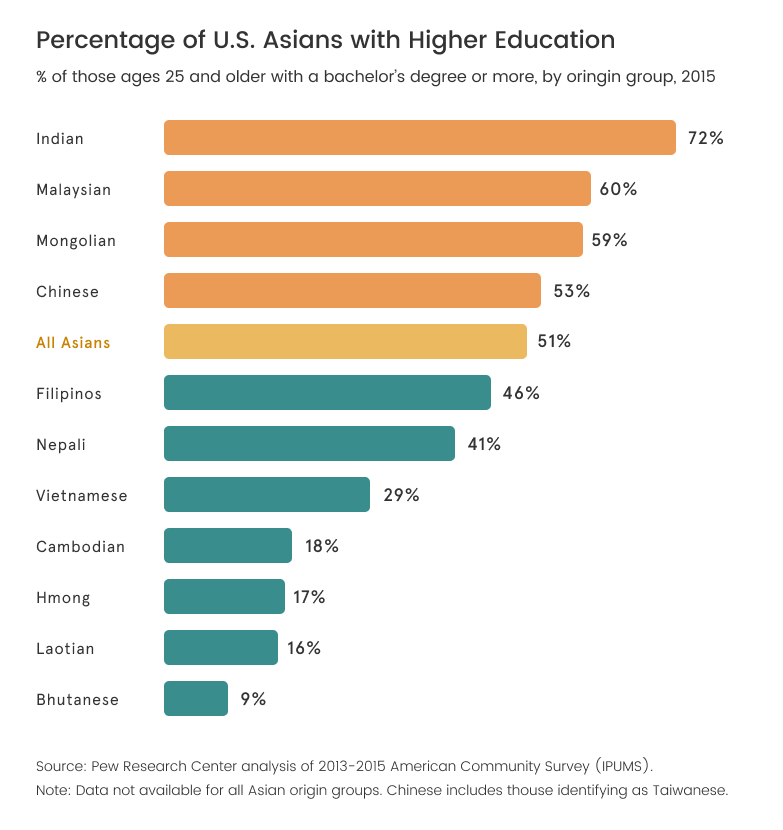
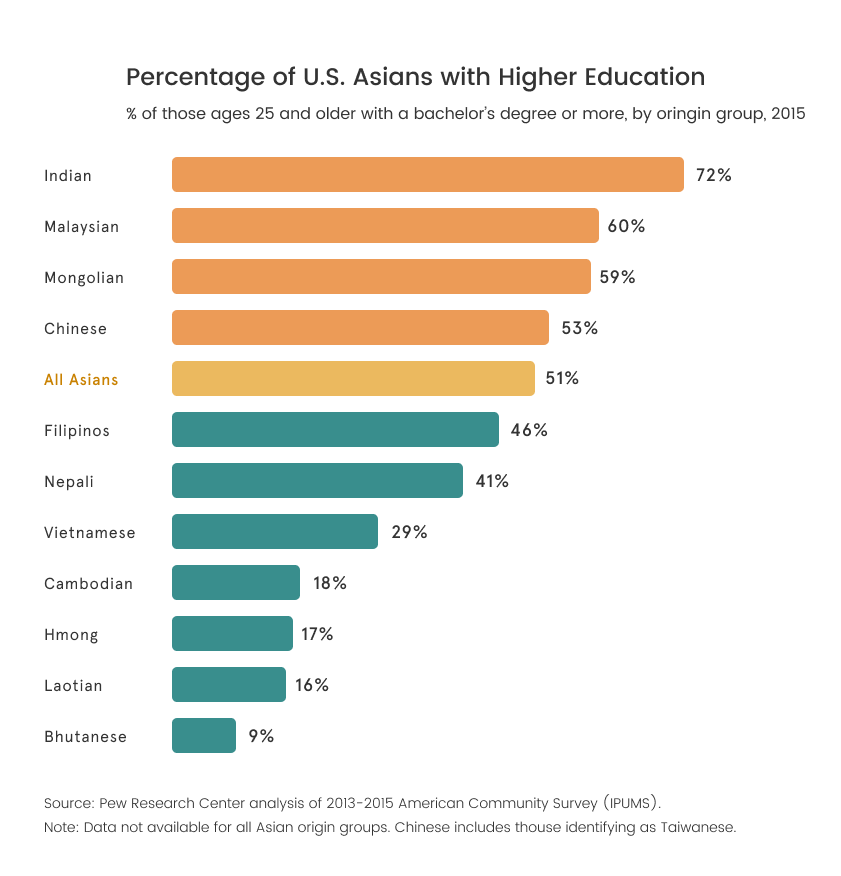
add section for edu and income

Changed region(s): [[0.0307, 0.0301, 0.9502, 0.8735], [0.0307, 0.1506, 0.1533, 0.8735], [0.0307, 0.9036, 0.9195, 0.9639]]

diff --git a/style.css b/style.css
@@ -11,7 +11,6 @@ html{
 
 a{
     text-decoration: none;
-
 }
 
 body {
@@ -21,6 +20,15 @@ body {
     color: #212529;
     text-align: left;
     background-color: #FBF3E1;
+}
+
+p {
+    color: #333333;
+    font-size: 24px;
+    font-weight: 400px;
+    padding-top: 5px;
+    padding-bottom: 5px;
+    text-align: center;
 }
 
 h1 {
@@ -46,6 +54,7 @@ h1-v {
 h2 {
     font-size: 38px;
     color: #FBF3E2;
+    font-weight: bold;
     left: 50%;
     margin-right: -50%;
     transform: translate(-50%, -50%);
@@ -56,12 +65,25 @@ h2 {
 h2-v {
     font-size: 38px;
     color: #CA8851;
-    padding-top: 75px;
+    font-weight: bold;
+    display: block;
+    text-align: center;
+    justify-content: center;
+    padding-top: 35px;
 }
 
 h3 {
     font-size: 28px;
     color: #CA8851;
+}
+
+h4 {
+    font-size: 16px;
+    color: #333333;
+    font-weight: lighter;
+    padding-top: 5px;
+    padding-bottom: 5px;
+    text-align: center;
 }
 
 #header {
@@ -197,18 +219,24 @@ h3 {
     position: relative;
 }
 
-.edu-container h2{
-    position: absolute;
-    color: #1B1D36;
-}
 
 #vizforedu {
     display: block;
     margin-left: auto;
     margin-right: auto;
-    padding-top: 125px;
     padding-left: 40px;
     padding-bottom: 50px;
+    margin-top: -55px;
+
+}
+
+#vizforincome {
+    display: block;
+    margin-left: auto;
+    margin-right: auto;
+    padding-left: 40px;
+    padding-bottom: 50px;
+
 }
 
 

diff --git a/index.html b/index.html
@@ -48,17 +48,22 @@
 			</div>
 		</section>
 
-		<!-- education level -->
+		<!-- education and income level -->
 		<section id="edu">
 			<div class="edu-container">
 				<div>
-					<h2>04      What's their education level?</h2>
+					<h2-v>04      What's their education level?</h2-v>
+					<br>
+					<!--<p>Percentage of U.S. Asians with Higher Education</p>
+					<h4>% of those ages 25 and older with a bachelor’s degree or more, by oringin group, 2015</h4>-->
 					<img src="img/education.png" alt="" id="vizforedu">
+					<!-- <br>
+					<br>-->
+					<h2-v>05      What's their income level?</h2-v>
+					<img src="img/income.png" alt="" id="vizforincome"> 
 				</div>
 			</div>
 		</section>
-
-
 
 
 
